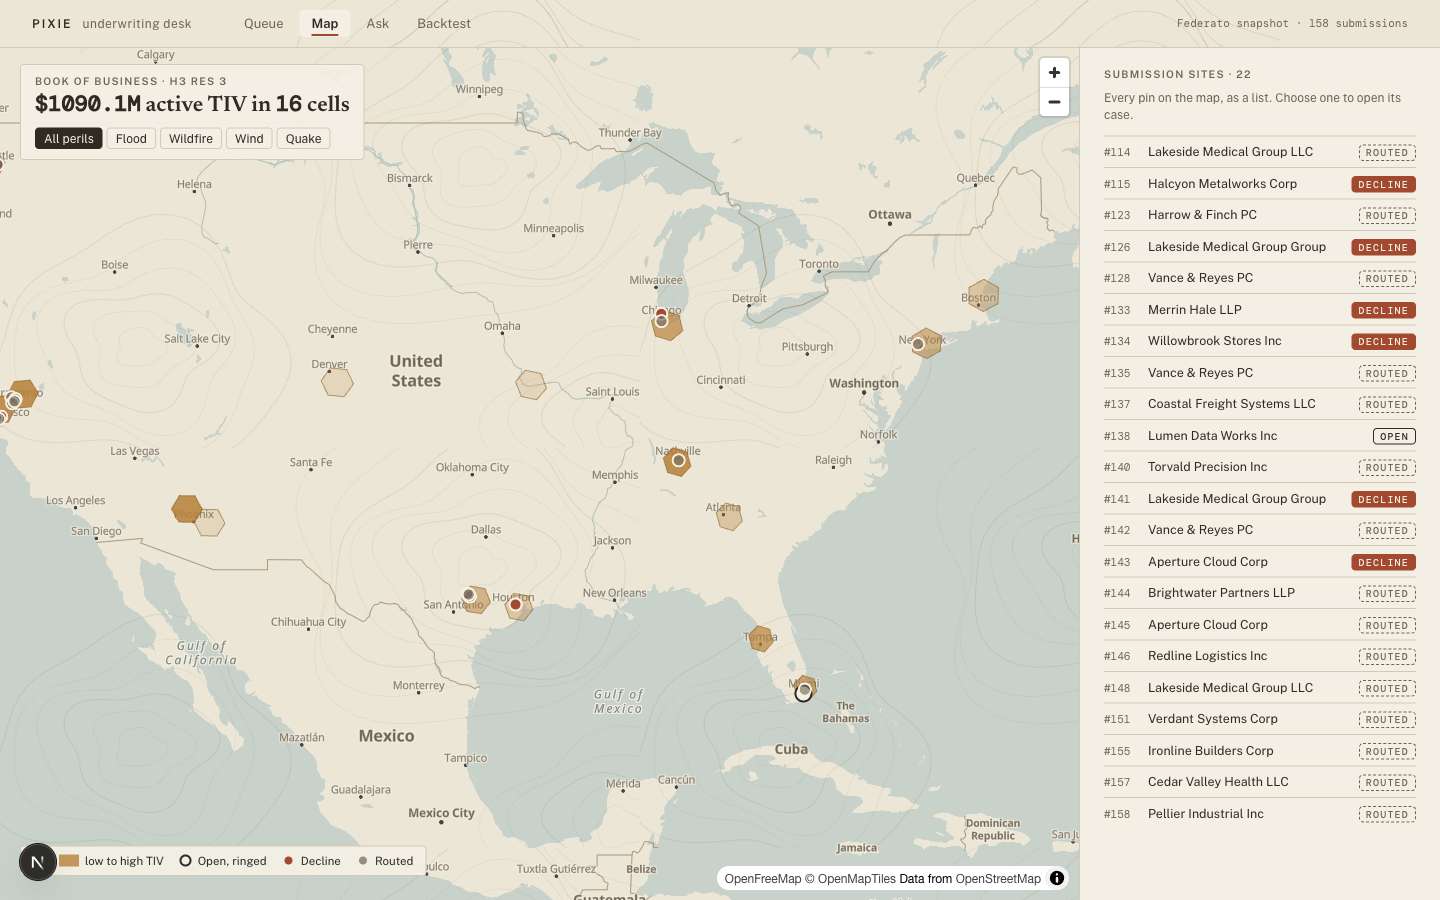
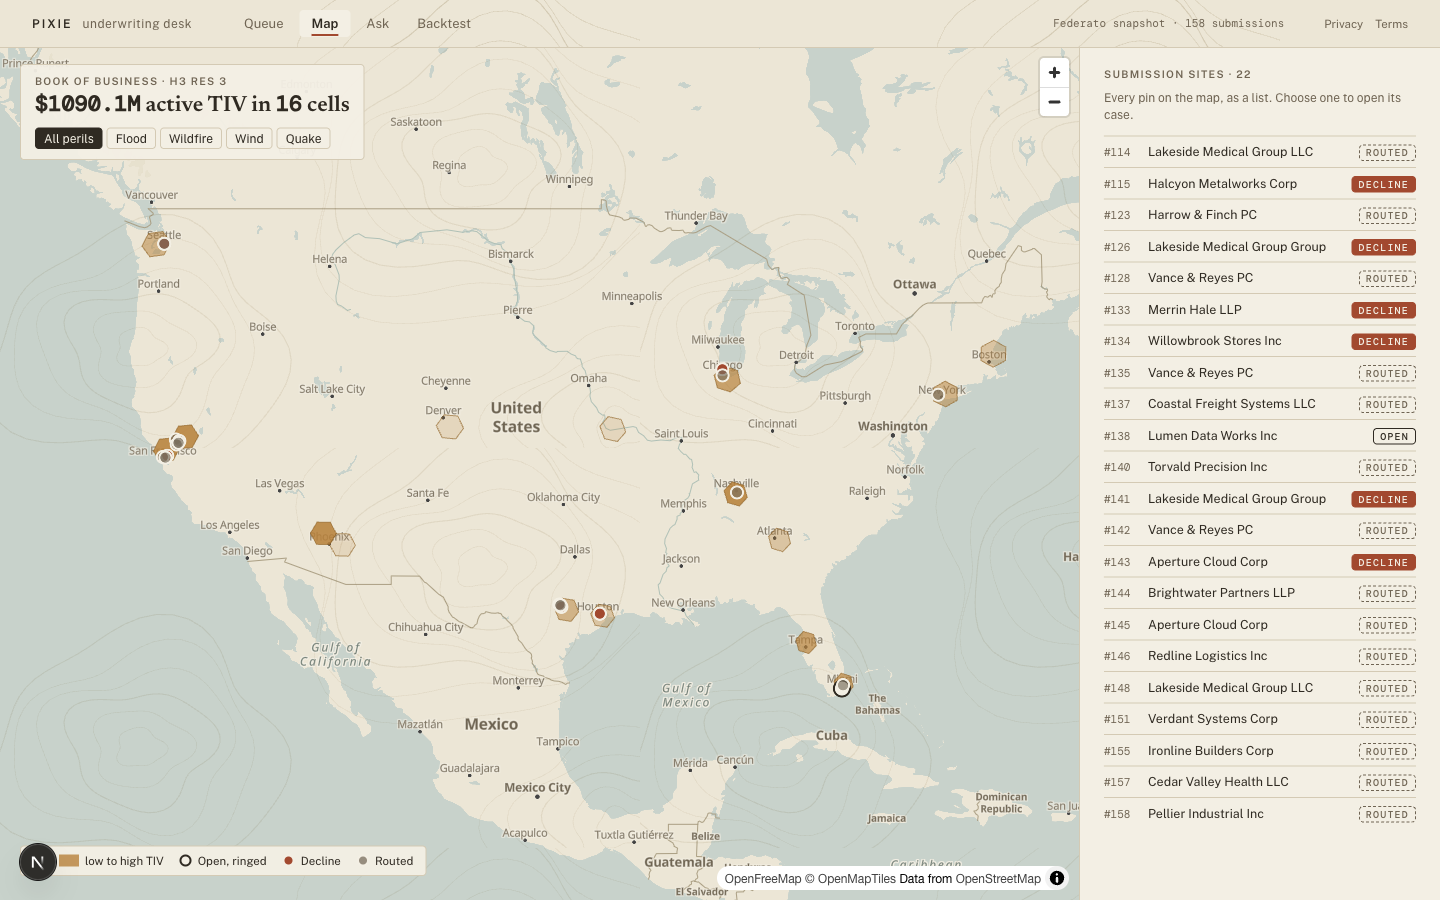
W8: tenant case view with an exact-sum receipt, /privacy and /terms
TQ-7f3a at 180 Queen St W (real res-9 cell 892b9bc461bffff) renders on the
same case page with a receipt block: base, capped multiplier lines with
sources, and a total checked in cents against the quoted annual. Tenant cases
skip broker actions and explain that no desk run happens. Privacy and Terms
are linked from the nav. Map total now prints billions.

diff --git a/web/src/lib/api.ts b/web/src/lib/api.ts
@@ -1,9 +1,6 @@
-import type { AskResult, CaseView, DeskEvent, Hex, QueueRow } from "@/contract";
+import type { AskResult, CaseView, DeskEvent, Hex, QueueRow, QuoteView } from "@/contract";
 import askFixture from "@/fixtures/ask.json";
 import backtestFixture from "@/fixtures/backtest.json";
-
-// contract.ts leaves BacktestView open; this is the shape the page reads (mirrors proof.BacktestReport).
-export type Backtest = typeof backtestFixture;
 import type { Pin } from "@/components/BookMap";
 import mapBook from "@/fixtures/map-book.json";
 import mapPins from "@/fixtures/map-pins.json";
@@ -11,7 +8,15 @@ import queue from "@/fixtures/queue.json";
 import case126 from "@/fixtures/case-126.json";
 import case138 from "@/fixtures/case-138.json";
 import case143 from "@/fixtures/case-143.json";
+import caseTQ from "@/fixtures/case-TQ-7f3a.json";
 import events138 from "@/fixtures/events-138.json";
+
+// contract.ts leaves BacktestView open; this is the shape the page reads (mirrors proof.BacktestReport).
+export type Backtest = typeof backtestFixture;
+
+// Tenant cases carry the quote receipt; contract.ts has it on QuoteView only, so the case view extends it here.
+export type Receipt = Omit<QuoteView["receipt"], "base"> & { base: number; annual: number; label: string };
+export type CaseWithReceipt = CaseView & { receipt?: Receipt };
 
 const BASE = process.env.NEXT_PUBLIC_API_URL ?? "http://localhost:8000";
 const FIXTURES_ONLY = process.env.NEXT_PUBLIC_FIXTURES === "1";
@@ -19,7 +24,7 @@ export const PERILS = ["all", "flood", "wildfire", "wind", "quake"] as const;
 export type Peril = (typeof PERILS)[number];
 const OPEN = new Set(["cleared", "received", "quoted"]);
 
-const cases: Record<string, unknown> = { "126": case126, "138": case138, "143": case143 };
+const cases: Record<string, unknown> = { "126": case126, "138": case138, "143": case143, "TQ-7f3a": caseTQ };
 const events: Record<string, unknown> = { "138": events138 };
 
 // Fixtures stand in when the API is down, so the demo never shows a blank page.
@@ -69,7 +74,7 @@ export const api = {
       const rows = queue as unknown as QueueRow[];
       return view === "open" ? rows.filter((r) => OPEN.has(r.status)) : rows;
     })) ?? [],
-  case: (id: string) => get<CaseView>(`/cases/${id}`, () => cases[id] as CaseView | undefined),
+  case: (id: string) => get<CaseWithReceipt>(`/cases/${id}`, () => cases[id] as CaseWithReceipt | undefined),
   events: async (id: string) =>
     (await get<DeskEvent[]>(`/cases/${id}/events?replay=0`, () => events[id] as DeskEvent[] | undefined)) ?? [],
   mapBook: async (peril: Peril, res: 3 | 5 = 5) =>

diff --git a/web/src/app/cases/[id]/page.tsx b/web/src/app/cases/[id]/page.tsx
@@ -1,9 +1,11 @@
 import Link from "next/link";
 import { notFound } from "next/navigation";
-import type { Band, CaseView } from "@/contract";
+import type { Band } from "@/contract";
+import type { CaseWithReceipt as CaseView } from "@/lib/api";
 import { api } from "@/lib/api";
 import { Actions } from "@/components/Actions";
 import { LiveMap } from "@/components/LiveMap";
+import { Receipt } from "@/components/Receipt";
 import { Swimlanes } from "@/components/Swimlanes";
 import { DecisionChip, IntervalBar, IssueTag, ProvenanceBadge, money } from "@/components/bits";
 
@@ -61,7 +63,7 @@ export default async function CasePage({ params }: PageProps<"/cases/[id]">) {
             hexes={hexes}
             pins={pin ? [pin] : [{ caseId: c.caseId, insured: c.title, decision: c.decision.kind, site: c.site, cell: "" }]}
             center={[c.site.lng, c.site.lat]}
-            zoom={8.2}
+            zoom={c.kind === "tenant" ? 13.5 : 8.2}
             highlight={pin?.cell}
           />
           <div aria-hidden className="contours pointer-events-none absolute inset-0 opacity-40 mix-blend-multiply" />
@@ -106,7 +108,7 @@ export default async function CasePage({ params }: PageProps<"/cases/[id]">) {
             <h1 className="mt-0.5 font-serif text-[32px] font-semibold leading-[1.1] text-balance">
               {c.title} <span className="align-[6px]"><DecisionChip decision={c.decision} large /></span>
             </h1>
-            <Actions caseId={c.caseId} flippers={flippers.map((f) => f.fact)} />
+            {c.kind === "commercial" && <Actions caseId={c.caseId} flippers={flippers.map((f) => f.fact)} />}
           </div>
 
           <div className="my-3">
@@ -140,7 +142,20 @@ export default async function CasePage({ params }: PageProps<"/cases/[id]">) {
         </div>
       </div>
 
-      <Swimlanes events={events} initialScore={c.scoreWithoutEnrichment} />
+      {c.receipt && (
+        <div className="border-b border-rule px-10 py-5">
+          <Receipt r={c.receipt} />
+        </div>
+      )}
+      {events.length ? (
+        <Swimlanes events={events} initialScore={c.scoreWithoutEnrichment} />
+      ) : (
+        <p className="px-10 py-4 text-[12.5px] text-dim">
+          {c.kind === "tenant"
+            ? "No desk run. Tenant quotes are decided in code in under a second; the desk only reviews referrals."
+            : "The desk has not run on this case yet."}
+        </p>
+      )}
 
       <div className="grid grid-cols-3 gap-10 border-t border-rule px-10 py-6">
         <section aria-labelledby="fb">

diff --git a/web/src/components/Receipt.tsx b/web/src/components/Receipt.tsx
@@ -1,0 +1,45 @@
+import type { Receipt as R } from "@/lib/api";
+
+const usd = (n: number) => `${n < 0 ? "−" : ""}$${Math.abs(n).toFixed(2)}`;
+
+// Totals are summed in cents so the check is exact, not float-close.
+export function Receipt({ r }: { r: R }) {
+  const cents = Math.round(r.base * 100) + r.lines.reduce((s, l) => s + Math.round(l.dollars * 100), 0);
+  const exact = cents === Math.round(r.annual * 100);
+  return (
+    <section aria-labelledby="rc" className="max-w-[560px]">
+      <h2 id="rc" className="kicker mb-1.5 flex justify-between">
+        <span>Receipt</span>
+        <span className={exact ? "text-moss" : "text-rust"}>{exact ? "✓ lines sum exactly" : "× lines do not sum to the total"}</span>
+      </h2>
+      <table className="w-full border-collapse font-mono text-[12px]">
+        <tbody>
+          <tr className="border-t border-ink">
+            <th scope="row" className="py-1.5 text-left font-sans font-medium">Base rate</th>
+            <td />
+            <td className="num py-1.5 text-right">{usd(r.base)}</td>
+          </tr>
+          {r.lines.map((l) => (
+            <tr key={l.label} className="border-t border-dashed border-rule align-top" title={l.source}>
+              <th scope="row" className="py-1.5 pr-3 text-left font-sans font-normal">
+                {l.label}
+                <span className="block text-[11px] text-dim">{l.source}</span>
+              </th>
+              <td className="num w-[90px] py-1.5 text-right text-dim">
+                ×{l.multiplier.toFixed(2)}
+                {l.capped && <span className="ml-1 text-[10px] text-ink">[cap]</span>}
+              </td>
+              <td className="num w-[90px] py-1.5 text-right">{l.dollars > 0 ? "+" : ""}{usd(l.dollars)}</td>
+            </tr>
+          ))}
+          <tr className="border-t-2 border-ink text-[14px]">
+            <th scope="row" className="py-2 text-left font-sans font-semibold">Annual</th>
+            <td className="num py-2 text-right text-[11px] text-dim">{usd(r.annual / 12)}/mo</td>
+            <td className="num py-2 text-right font-semibold">{usd(cents / 100)}</td>
+          </tr>
+        </tbody>
+      </table>
+      <p className="mt-1.5 text-[11.5px] text-dim">{r.label}</p>
+    </section>
+  );
+}

diff --git a/web/src/app/privacy/page.tsx b/web/src/app/privacy/page.tsx
@@ -1,0 +1,16 @@
+export const metadata = { title: "Privacy · Pixie" };
+
+export default function Privacy() {
+  return (
+    <main className="px-10 py-8">
+      <h1 className="font-serif text-[32px] font-semibold leading-tight">Privacy</h1>
+      <p className="mt-3 max-w-[65ch] text-[14px] leading-relaxed">
+        Pixie is a Hack the North 2026 prototype. It stores no personal data. A tenant quote keeps the address you type,
+        your three answers and the computed receipt so the underwriter view can open the same case; nothing is tied to a
+        name, email or account, and the demo store is wiped after the event. Addresses are geocoded through
+        OpenStreetMap&apos;s Nominatim, and map tiles come from OpenFreeMap. The underwriting data is Federato&apos;s
+        synthetic hackathon dataset, not real customers.
+      </p>
+    </main>
+  );
+}

diff --git a/web/src/app/terms/page.tsx b/web/src/app/terms/page.tsx
@@ -1,0 +1,15 @@
+export const metadata = { title: "Terms · Pixie" };
+
+export default function Terms() {
+  return (
+    <main className="px-10 py-8">
+      <h1 className="font-serif text-[32px] font-semibold leading-tight">Terms</h1>
+      <p className="mt-3 max-w-[65ch] text-[14px] leading-relaxed">
+        Pixie is a demonstration, not an insurance product. Prices are illustrative, produced by our documented model,
+        and are not an Intact price, quote or offer of coverage. Underwriting decisions shown on the desk run on
+        Federato&apos;s synthetic data and are not advice about any real risk. Use it to see how the engine reasons, not to
+        buy or decline cover.
+      </p>
+    </main>
+  );
+}

diff --git a/web/src/components/Nav.tsx b/web/src/components/Nav.tsx
@@ -37,6 +37,10 @@ export function Nav() {
         </ul>
       </nav>
       <span className="ml-auto font-mono text-[11px] text-dim">Federato snapshot · 158 submissions</span>
+      <span className="flex gap-3 text-[11.5px] text-dim">
+        <Link href="/privacy" className="hover:text-ink hover:underline">Privacy</Link>
+        <Link href="/terms" className="hover:text-ink hover:underline">Terms</Link>
+      </span>
     </header>
   );
 }

diff --git a/web/src/components/bits.tsx b/web/src/components/bits.tsx
@@ -105,4 +105,4 @@ export function IssueTag({ kind, severity, text }: { kind: string; severity: str
 }
 
 export const money = (n: number) =>
-  n >= 1e6 ? `$${(n / 1e6).toFixed(1)}M` : n >= 1e3 ? `$${Math.round(n / 1e3)}K` : `$${n}`;
+  n >= 1e9 ? `$${(n / 1e9).toFixed(2)}B` : n >= 1e6 ? `$${(n / 1e6).toFixed(1)}M` : n >= 1e3 ? `$${Math.round(n / 1e3)}K` : `$${n}`;
